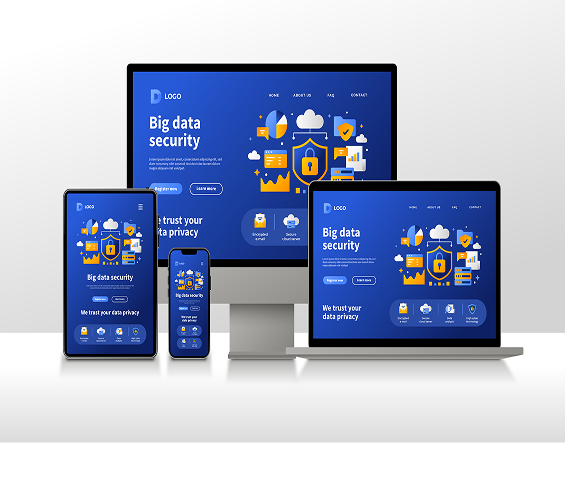
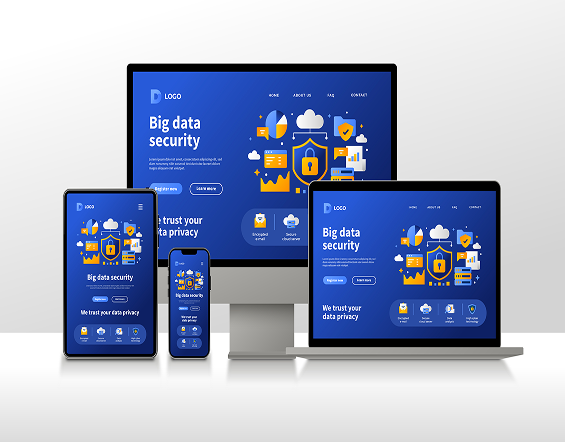
contact form modified

diff --git a/src/app/contact/page.tsx b/src/app/contact/page.tsx
@@ -1,11 +1,11 @@
 import type { Metadata } from "next";
 
-import { contactJsonLd, contactSeo } from "@/lib/content/contact";
+import { contactJsonLd, contactPageHero, contactSeo } from "@/lib/content/contact";
+import { icons } from "@/lib/content/home";
 import { site } from "@/lib/content/site";
 
-import { ContactHero } from "@/components/site/contact-hero";
+import { Icon } from "@/components/site/icon";
 import { LeadForm } from "@/components/site/lead-form";
-import { ContactDetails } from "@/components/site/contact-details";
 import { FinalCta } from "@/components/site/final-cta";
 import { Footer } from "@/components/site/footer";
 import { Faq } from "@/components/site/faq";
@@ -31,8 +31,9 @@ export const metadata: Metadata = {
 };
 
 /**
- * Contact route (FR-12 / BR-3): hero → lead form beside the direct contact
- * panel → the shared FAQ block → closing CTA → footer. The FAQ is reused rather
+ * Contact route (FR-12 / BR-3): a compact eyebrow band (mark + "Contact") →
+ * the display headline beside the lead form (lit by a single top-right glow)
+ * → the shared FAQ block → closing CTA → footer. The FAQ is reused rather
  * than duplicated so the same questions (and the FAQPage JSON-LD that ships
  * with them on the home route) never appear twice on the site. The footer is
  * rendered per page (the root layout only owns the navbar), and the route ends
@@ -46,15 +47,56 @@ export default function ContactPage() {
         dangerouslySetInnerHTML={{ __html: JSON.stringify(contactJsonLd) }}
       />
 
-      <ContactHero />
+      <section className="bg-waymarks-dark text-white">
+        {/* <div className="mx-auto max-w-6xl px-4 pb-10 pt-20 sm:px-6 lg:px-8 lg:pb-12 lg:pt-24">
 
-      <section className="border-y border-white/10 bg-waymarks-surface py-20 lg:py-24">
-        <div className="mx-auto grid max-w-6xl gap-10 px-4 sm:px-6 lg:grid-cols-12 lg:gap-8 lg:px-8">
-          <div className="lg:col-span-7">
-            <LeadForm />
+        </div> */}
+      </section>
+
+      <section className="relative overflow-hidden border-y border-white/10 bg-waymarks-surface py-20 lg:py-24">
+        <div
+          aria-hidden="true"
+          className="pointer-events-none absolute -top-1/4 right-0 size-[34rem] rounded-full bg-waymarks-primary/10 blur-3xl"
+        />
+        <div className="relative mx-auto grid max-w-6xl gap-10 px-4 sm:px-6 lg:grid-cols-12 lg:gap-2 lg:px-8">
+          <div className="lg:col-span-6">
+            <p className="flex items-center gap-4 text-2xl font-bold text-waymarks-primary">
+              <Icon name={icons.mail} className="size-7" />
+              <span>{contactPageHero.label}</span>
+            </p>
+            <h1 className="mt-8 text-4xl font-bold leading-[1.1] tracking-tight text-white sm:text-5xl lg:text-[56px]">
+              {contactPageHero.title.map((line) => (
+                <span key={line} className="lg:block">
+                  {line}
+                </span>
+              ))}
+            </h1>
+            <p className="mt-6 text-xl font-bold text-white">
+              {contactPageHero.intro}
+            </p>
+            <p className="mt-4 text-base text-white/75">
+              {contactPageHero.body}
+            </p>
+            <ul className="mt-8 flex flex-col gap-4 max-w-[250px]">
+              {contactPageHero.links.map((link) => (
+                <li key={link.value} className="flex items-center gap-4">
+                  <Icon name={link.icon} className="size-7 shrink-0 text-waymarks-primary" />
+                  {link.href ? (
+                    <a
+                      href={link.href}
+                      className="text-base text-white transition-colors duration-200 hover:text-waymarks-primary"
+                    >
+                      {link.value}
+                    </a>
+                  ) : (
+                    <span className="text-base text-white">{link.value}</span>
+                  )}
+                </li>
+              ))}
+            </ul>
           </div>
-          <div className="lg:col-span-5">
-            <ContactDetails />
+          <div className="lg:col-span-6">
+            <LeadForm />
           </div>
         </div>
       </section>

diff --git a/src/components/site/website-design-who-its-for.tsx b/src/components/site/website-design-who-its-for.tsx
@@ -1,0 +1,53 @@
+export function WebsiteDesignWhoItsFor() {
+  return (
+    <section className="border-b border-white/10 bg-waymarks-surface py-20 text-white lg:py-24">
+      <div className="mx-auto max-w-6xl px-4 sm:px-6 lg:px-8">
+        <h2 className="mx-auto max-w-4xl text-center text-[32px] font-bold leading-[1.15] tracking-tight text-white sm:text-[40px] lg:text-[56px]">
+          Who This Is For
+          <span className="waymarks-gradient-text block">
+            The Right Fit For Your Goals
+          </span>
+        </h2>
+
+        <div className="mt-10 grid gap-12 lg:grid-cols-2 lg:items-center lg:gap-16">
+          <img
+            src="/images/services/website_design/web_devlopment.png"
+            alt="Website design and development illustration"
+            width={620}
+            height={500}
+            className="aspect-[620/500] w-full rounded-2xl border border-white/10 object-cover"
+          />
+
+          <div>
+            <ul className="space-y-4">
+              <li className="flex items-start gap-3">
+                <span aria-hidden="true" className="mt-2.5 size-1.5 shrink-0 rounded-full bg-waymarks-primary" />
+                <span className="text-base leading-relaxed text-muted-foreground sm:text-lg">
+                  Startups and founders needing a website that builds credibility from day one
+                </span>
+              </li>
+              <li className="flex items-start gap-3">
+                <span aria-hidden="true" className="mt-2.5 size-1.5 shrink-0 rounded-full bg-waymarks-primary" />
+                <span className="text-base leading-relaxed text-muted-foreground sm:text-lg">
+                  Growing businesses looking to convert more visitors into customers
+                </span>
+              </li>
+              <li className="flex items-start gap-3">
+                <span aria-hidden="true" className="mt-2.5 size-1.5 shrink-0 rounded-full bg-waymarks-primary" />
+                <span className="text-base leading-relaxed text-muted-foreground sm:text-lg">
+                  Established brands ready for a modern, high-performing website
+                </span>
+              </li>
+              <li className="flex items-start gap-3">
+                <span aria-hidden="true" className="mt-2.5 size-1.5 shrink-0 rounded-full bg-waymarks-primary" />
+                <span className="text-base leading-relaxed text-muted-foreground sm:text-lg">
+                  Service businesses that need to generate more qualified leads
+                </span>
+              </li>
+            </ul>
+          </div>
+        </div>
+      </div>
+    </section>
+  );
+}

diff --git a/src/components/site/lead-form.tsx b/src/components/site/lead-form.tsx
@@ -1,12 +1,12 @@
 "use client";
 
 import * as React from "react";
-import { Loader2, Send } from "lucide-react";
+import { ArrowRight, Loader2, Send } from "lucide-react";
 
 import { Button } from "@/components/ui/button";
 import { cn } from "@/lib/utils";
 import { contactForm } from "@/lib/content/contact";
-import { site } from "@/lib/content/site";
+import { bookCallHref, site } from "@/lib/content/site";
 
 /**
  * Lead form (FR-12 / BR-3).
@@ -192,7 +192,7 @@ export function LeadForm() {
   const done = status === "success";
 
   return (
-    <div className="rounded-3xl border border-white/10 bg-card p-6 shadow-card sm:p-8">
+    <div className="rounded-3xl max-w-xl border border-white/10 bg-card p-6 shadow-card sm:p-8">
       <h2 className="text-2xl font-bold tracking-tight text-white sm:text-3xl">
         {contactForm.title}
       </h2>
@@ -373,11 +373,11 @@ export function LeadForm() {
             />
           </div>
 
-          <div className="flex flex-col gap-4 sm:flex-row sm:items-center">
+          <div className="flex flex-col gap-4">
             <Button
               type="submit"
               disabled={submitting}
-              className="waymarks-cta-gradient h-12 gap-2 rounded-full px-8 text-base font-semibold text-waymarks-dark hover:-translate-y-0.5"
+              className="waymarks-cta-gradient h-12 w-full gap-2 rounded-full px-8 text-base font-semibold text-waymarks-dark hover:-translate-y-0.5"
             >
               {submitting ? (
                 <>
@@ -391,6 +391,17 @@ export function LeadForm() {
                 </>
               )}
             </Button>
+
+            <p className="flex flex-wrap items-center justify-center gap-x-2 gap-y-1 text-center text-sm text-muted-foreground">
+              <span>{contactForm.preferTalk}</span>
+              <a
+                href={bookCallHref}
+                className="waymarks-gradient-text inline-flex items-center gap-1 font-semibold transition-opacity duration-200 hover:opacity-80 focus-visible:outline-none focus-visible:ring-3 focus-visible:ring-ring/50"
+              >
+                {contactForm.bookCallLabel}
+                <ArrowRight className="size-4 text-waymarks-accent" aria-hidden="true" />
+              </a>
+            </p>
 
             <p
               ref={statusRef}

diff --git a/src/lib/content/contact.ts b/src/lib/content/contact.ts
@@ -19,12 +19,32 @@ export const contactSeo = {
 export const contactPageHero = {
   label: "Contact",
   // Display headline. Set on the left column at 56px / bold / white, matching
-  // the services hero treatment; the highlight phrase closes the line.
-  title: ["Tell Us What", "You're Building"],
+  // the services hero treatment; the lead form sits opposite it.
+  title: ["Contact Waymarks", "And Let's Build", "Something", "Meaningful"],
   intro:
-    "Share the problem you are trying to solve and we will tell you honestly whether we are the right studio for it.",
-  body: "Every enquiry gets a reply from a senior designer or strategist within one business day. No sales scripts, no auto-responders.",
+    "Have an idea? Need a better website? Building a digital product? Refreshing your brand? Looking for a growth partner?",
+  body: "Have an idea? Need a better website? Building a digital product? Refreshing your brand? Looking for a growth partner?",
+  // Direct contact beats under the intro copy. `href` is omitted for the beat
+  // with no actionable link, rendered as plain text.
+  links: [
+    {
+      icon: icons.mail,
+      value: site.email,
+      href: `mailto:${site.email}`,
+    },
+    {
+      icon: icons.clock3,
+      value: "Pick a time that suits you and talk with our team directly.",
+    },
+  ] as readonly ContactPageLink[],
 } as const;
+
+/** A single icon + text beat under the contact hero copy. */
+interface ContactPageLink {
+  icon: string;
+  value: string;
+  href?: string;
+}
 
 // ---------------------------------------------------------------------------
 // 2. Direct contact details
@@ -81,6 +101,8 @@ export const contactForm = {
     "Six short fields. The more concrete you are, the more useful our first reply will be.",
   submitLabel: "Send message",
   sendingLabel: "Sending…",
+  preferTalk: "Prefer to talk first?",
+  bookCallLabel: "Book a Call Directly",
   successTitle: "Thanks — we've got it.",
   successBody: `Your message is with the studio. Expect a reply at the email you gave us within one business day.`,
   errorTitle: "That didn't send.",

diff --git a/src/app/services/website-design/page.tsx b/src/app/services/website-design/page.tsx
@@ -1,7 +1,7 @@
 import type { Metadata } from "next";
 
 import { site } from "@/lib/content/site";
-import { websiteDesignSeo } from "@/lib/content/website-design";
+import { websiteDesignSeo, websiteDesignWhoItsForImage } from "@/lib/content/website-design";
 
 import { FinalCta } from "@/components/site/final-cta";
 import { Footer } from "@/components/site/footer";
@@ -11,6 +11,7 @@ import { WebsiteDesignServices } from "@/components/site/website-design-services
 import { WebsiteDesignStrategy } from "@/components/site/website-design-strategy";
 import { WebsiteDevelopmentServices } from "@/components/site/website-development-services";
 import { WebsiteDesignWhyTogether } from "@/components/site/website-design-why-together";
+import { WebsiteDesignWhoItsFor } from "@/components/site/website-design-who-its-for";
 import { TechnologiesSection } from "@/components/site/technologies-section";
 import { RecentProductDesign } from "@/components/site/recent-product-design";
 import { ServiceDetailWhatYouReceive } from "@/components/site/service-detail-what-you-receive";
@@ -64,7 +65,7 @@ export default function WebsiteDesignServicePage() {
 
           <ServiceDetailWhatYouReceive service={service} />
           <ServiceDetailBrandIdentityProcess service={service} />
-          <ServiceDetailWhoItsFor service={service} />
+          <ServiceDetailWhoItsFor service={service} image={websiteDesignWhoItsForImage} />
 
           <Faq />
           <ServiceDetailClosing service={service} />

diff --git a/public/icon_figma.ts b/public/icon_figma.ts
@@ -215,3 +215,11 @@ export const QA_testing_icon = `<svg width="48" height="48" viewBox="0 0 48 48" 
 <path d="M18 24L22 28L30 20" stroke="#BDD631" stroke-width="3" stroke-linecap="round" stroke-linejoin="round"/>
 </svg>
 `
+export const clock_icon = `<svg width="22" height="22" viewBox="0 0 22 22" fill="none" xmlns="http://www.w3.org/2000/svg">
+<path d="M13.7493 1.83331H9.16602" stroke="#BDD631" stroke-width="1.375" stroke-linecap="round" stroke-linejoin="round"/>
+<path d="M3.66667 12.375C3.66667 8.07176 7.15512 4.58331 11.4583 4.58331C13.6099 4.58331 15.5579 5.45542 16.9679 6.86544M16.9679 6.86544C18.3779 8.27545 19.25 10.2234 19.25 12.375C19.25 16.6782 15.7615 20.1666 11.4583 20.1666H2.75M16.9679 6.86544L18.3333 5.49998" stroke="#BDD631" stroke-width="1.375" stroke-linecap="round" stroke-linejoin="round"/>
+<path d="M7.33333 17.4167H2.75" stroke="#BDD631" stroke-width="1.375" stroke-linecap="round" stroke-linejoin="round"/>
+<path d="M5.5 14.6667H2.75" stroke="#BDD631" stroke-width="1.375" stroke-linecap="round" stroke-linejoin="round"/>
+<path d="M11.459 12.375L14.6673 9.16669" stroke="#BDD631" stroke-width="1.375" stroke-linecap="round" stroke-linejoin="round"/>
+</svg>
+`

diff --git a/src/components/site/service-detail-who-its-for.tsx b/src/components/site/service-detail-who-its-for.tsx
@@ -1,4 +1,4 @@
-import type { ServiceDetail } from "@/lib/content/service-details";
+import type { ServiceDetail, ServiceDetailImage } from "@/lib/content/service-details";
 
 import { CtaButton } from "./cta";
 
@@ -6,10 +6,18 @@ import { CtaButton } from "./cta";
  * "Who this is for" band: the artwork leads in the left column, and the trailing
  * column names the audience — the headline at display size, one line per audience
  * type, then the CTA. Stacks to a single column below the tablet breakpoint
- * (design-system §3).
+ * (design-system §3). `image` swaps the artwork when a route repeats the band
+ * with a different visual.
  */
-export function ServiceDetailWhoItsFor({ service }: { service: ServiceDetail }) {
-  const { title, points, cta, image } = service.whoItsFor;
+export function ServiceDetailWhoItsFor({
+  service,
+  image: imageOverride,
+}: {
+  service: ServiceDetail;
+  image?: ServiceDetailImage;
+}) {
+  const { title, points, cta, image: serviceImage } = service.whoItsFor;
+  const image = imageOverride ?? serviceImage;
 
   return (
     <section className="border-b border-white/10 bg-waymarks-surface py-20 text-white lg:py-24">

diff --git a/src/components/site/recent-product-design.tsx b/src/components/site/recent-product-design.tsx
@@ -54,15 +54,15 @@ export function RecentProductDesign() {
           <div className="flex flex-col gap-6">
             <figure className="relative overflow-hidden rounded-2xl border border-white/10">
               <Image
-                src="/images/services/website_design/Edible.png"
-                alt="Edible"
+                src="/images/services/website_design/web_design03.png"
+                alt="Web design 03"
                 width={1200}
                 height={1600}
                 className="h-auto w-full object-cover"
                 sizes="(max-width: 1024px) 100vw, 50vw"
               />
               <figcaption className="absolute bottom-0 left-0 right-0 bg-gradient-to-t from-black/70 to-transparent p-4 text-sm font-medium">
-                {titleFrom("Edible.png")}
+                {titleFrom("web_design03.png")}
               </figcaption>
             </figure>
           </div>

diff --git a/src/lib/content/website-design.ts b/src/lib/content/website-design.ts
@@ -8,6 +8,16 @@ import type { Cta } from "./home";
 import { bookCallHref } from "./site";
 import { icons } from "./icons";
 
+// Second "Who This Is For" band on this route: same audience copy as the shared
+// `ServiceDetailWhoItsFor` section, shown again with the web development
+// artwork in place of the default visual.
+export const websiteDesignWhoItsForImage = {
+  src: "/images/services/website_design/web_devlopment.png",
+  alt: "Waymark website design and development artwork",
+  width: 620,
+  height: 500,
+};
+
 export const websiteDesignSeo = {
   title: "Web Design and Development | Waymarks",
   description:
